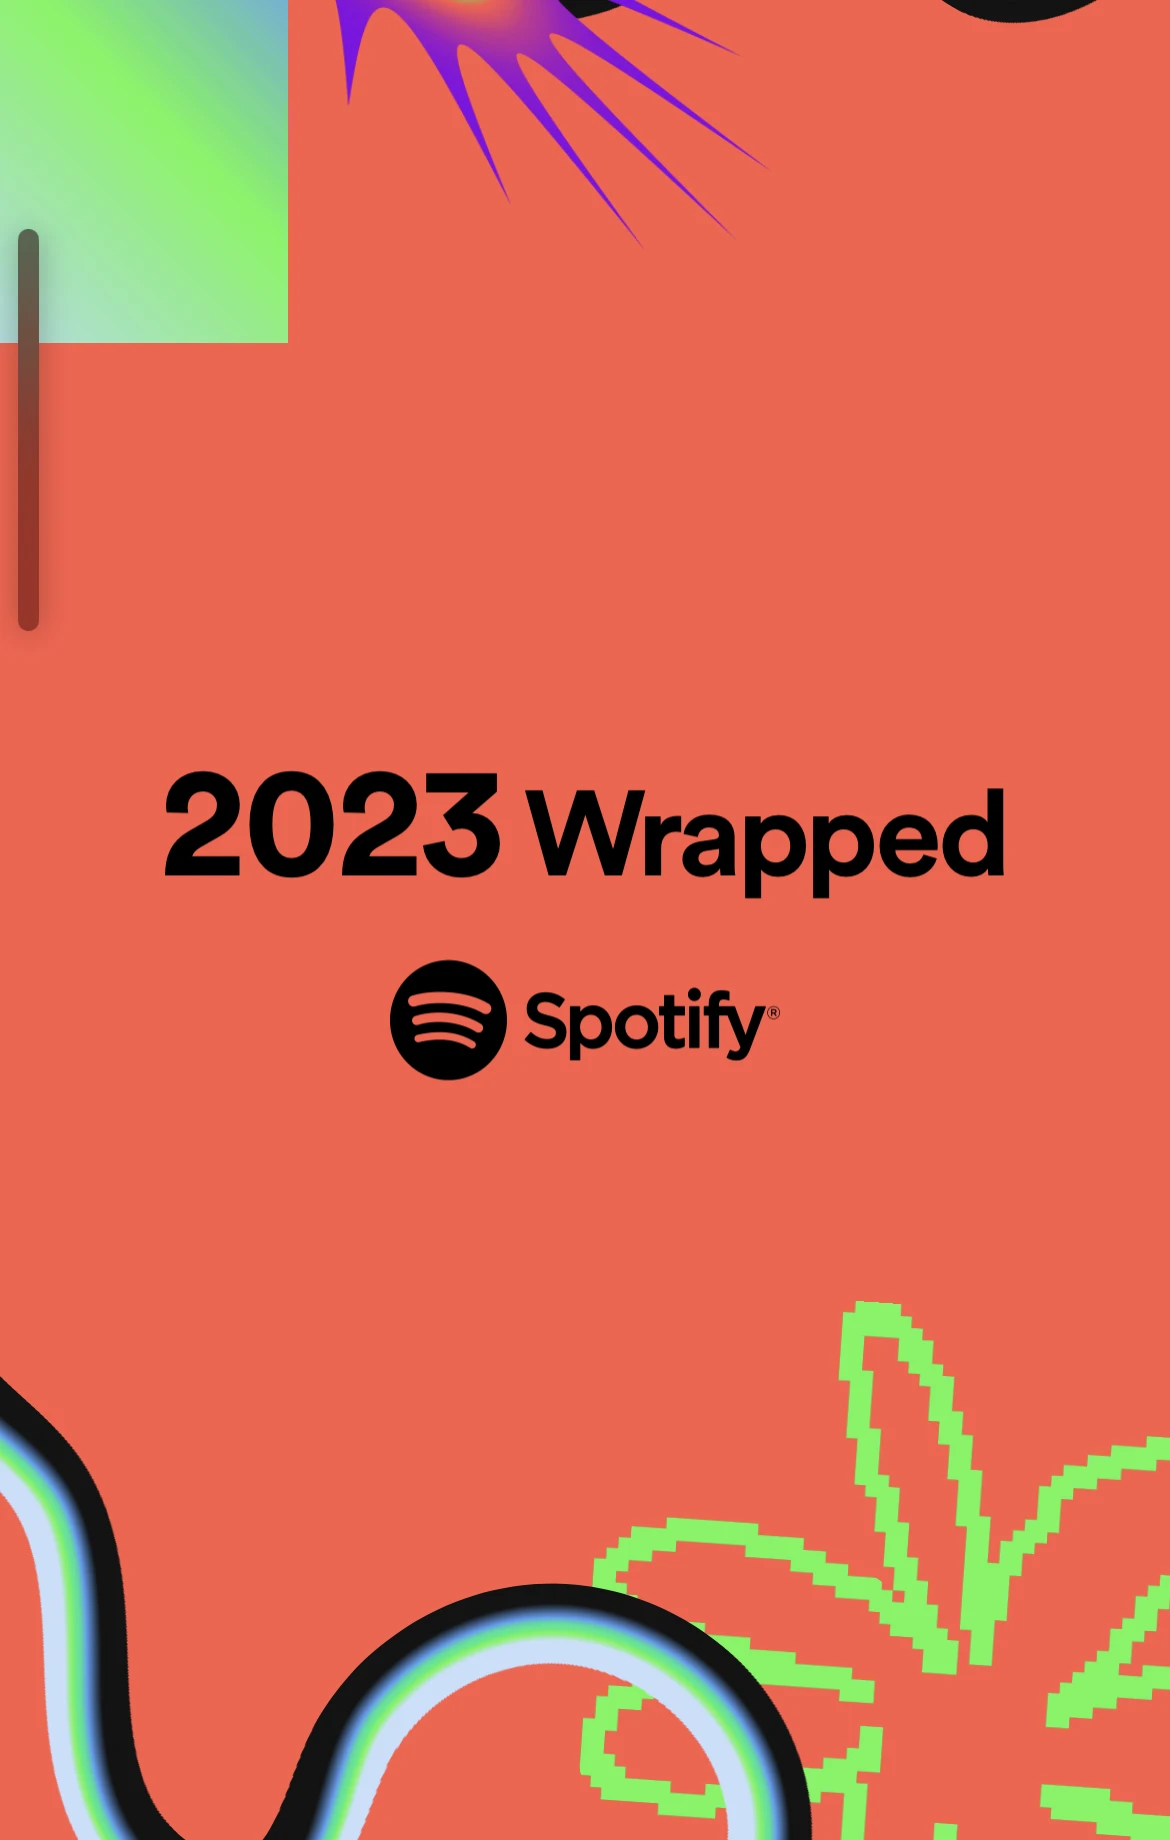
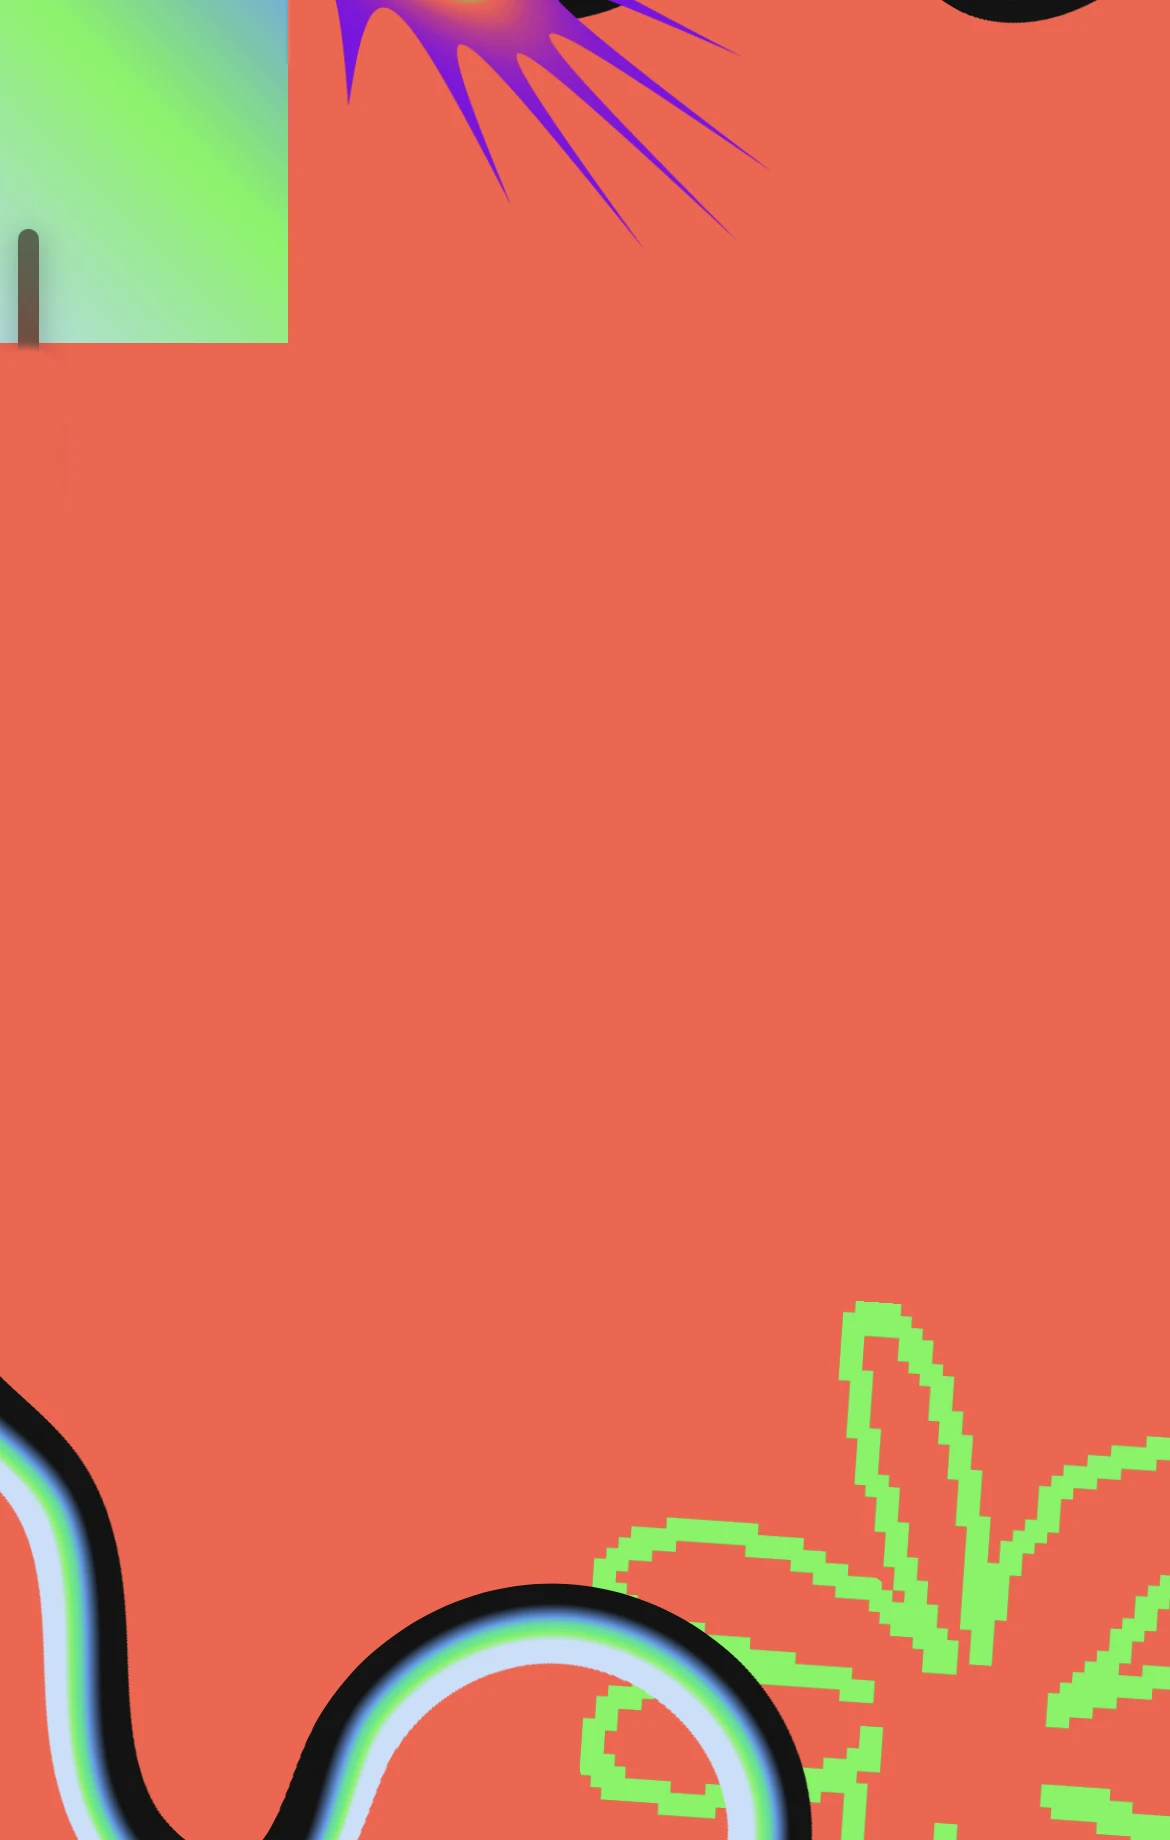
Added basic fetching and display of data

Changed region(s): [[0.1231, 0.4027, 0.8615, 0.5886], [0.0, 0.1859, 0.0615, 0.3408]]

diff --git a/src/containers/StoriesHover/index.tsx b/src/containers/StoriesHover/index.tsx
@@ -3,6 +3,7 @@ import React, { useContext, useEffect } from "react"
 import { StoryImg } from "@app/components/StoryImg"
 import { StoriesContext } from "@app/contexts/StoriesContext"
 import { IStoriesContext } from "@app/types/interfaces/storiesContext.interface"
+import { fetchData } from "@app/data/api"
 
 interface StoriesHoverProps {
   children: JSX.Element
@@ -10,6 +11,19 @@ interface StoriesHoverProps {
 
 const StoriesHover: React.FC<StoriesHoverProps> = ({ children }): JSX.Element => {
   const { currentStories, currentStory, loading } = useContext(StoriesContext) as IStoriesContext
+  const [data, setData] = React.useState(null);
+
+  useEffect(() => {
+    fetchData('/data/merchantCode/5814/8038549')
+      .then(data => {
+        if (data) {
+          console.log('Fetched data:', data);
+          setData(data);
+        } else {
+          console.log('No data fetched.');
+        }
+      });
+  }, []);
 
   useEffect(() => {
     const spanElement = document.getElementById(currentStory)
@@ -20,7 +34,7 @@ const StoriesHover: React.FC<StoriesHoverProps> = ({ children }): JSX.Element =>
   
   return(
     <section className="max-w-[900px] mx-auto">
-      <StoryImg imgUrl={currentStory}>
+      <StoryImg imgUrl={currentStory} data={data}>
         <div className="absolute px-2 w-[97%] bg-gradient-to-t from-transparent to-black">
           <div className="flex justify-between pt-3 space-x-1 px-1">
             {currentStories.map(story => (
@@ -30,7 +44,6 @@ const StoriesHover: React.FC<StoriesHoverProps> = ({ children }): JSX.Element =>
               </div>
             ))}
           </div>
-
           {children}
         </div>
       </StoryImg>

diff --git a/src/components/StoryImg/index.tsx b/src/components/StoryImg/index.tsx
@@ -15,11 +15,12 @@ import { BsFillArrowRightCircleFill, BsFillArrowLeftCircleFill } from "react-ico
 import { STORIES } from "@app/data/stories"
 
 export interface StoryImgProps {
+  data: any;
   imgUrl: string;
   children: JSX.Element;
 }
 
-const StoryImg: React.FC<StoryImgProps> = ({ imgUrl, children }): JSX.Element => {
+const StoryImg: React.FC<StoryImgProps> = ({ data, imgUrl, children }): JSX.Element => {
   const { storiesDispatch, currentStories } = useContext(StoriesContext) as IStoriesContext
   const { dispatch, modal:{ userId } } = useContext(AppContext) as IAppContext
   const { currentStoryIndex } = getCurrentStory(currentStories, imgUrl)
@@ -55,6 +56,12 @@ const StoryImg: React.FC<StoryImgProps> = ({ imgUrl, children }): JSX.Element =>
         className="h-full object-cover object-center rounded-xl"
         onLoad={handleLoad(configStoryTransition)}
       />
+
+      <div className="absolute flex items-center justify-center bottom-0 left-0 w-full h-full">
+        <pre>
+          {JSON.stringify(data, null, 2)}
+        </pre>
+      </div>
 
       <ConditionalNode condition={!isVeryLastStory}>
         <StoryButton>

diff --git a/src/data/api.ts b/src/data/api.ts
@@ -1,0 +1,15 @@
+const apiUrl = 'https://wrapped.azurewebsites.net/api';
+
+export async function fetchData(url: string) {
+  try {
+    const response = await fetch(`${apiUrl}/${url}`, { mode: "cors" });
+    if (!response.ok) {
+      throw new Error('Network response was not ok.');
+    }
+    const data = await response.json();
+    return data;
+  } catch (error) {
+    console.error('There was a problem fetching the data:', error);
+    return null;
+  }
+}
